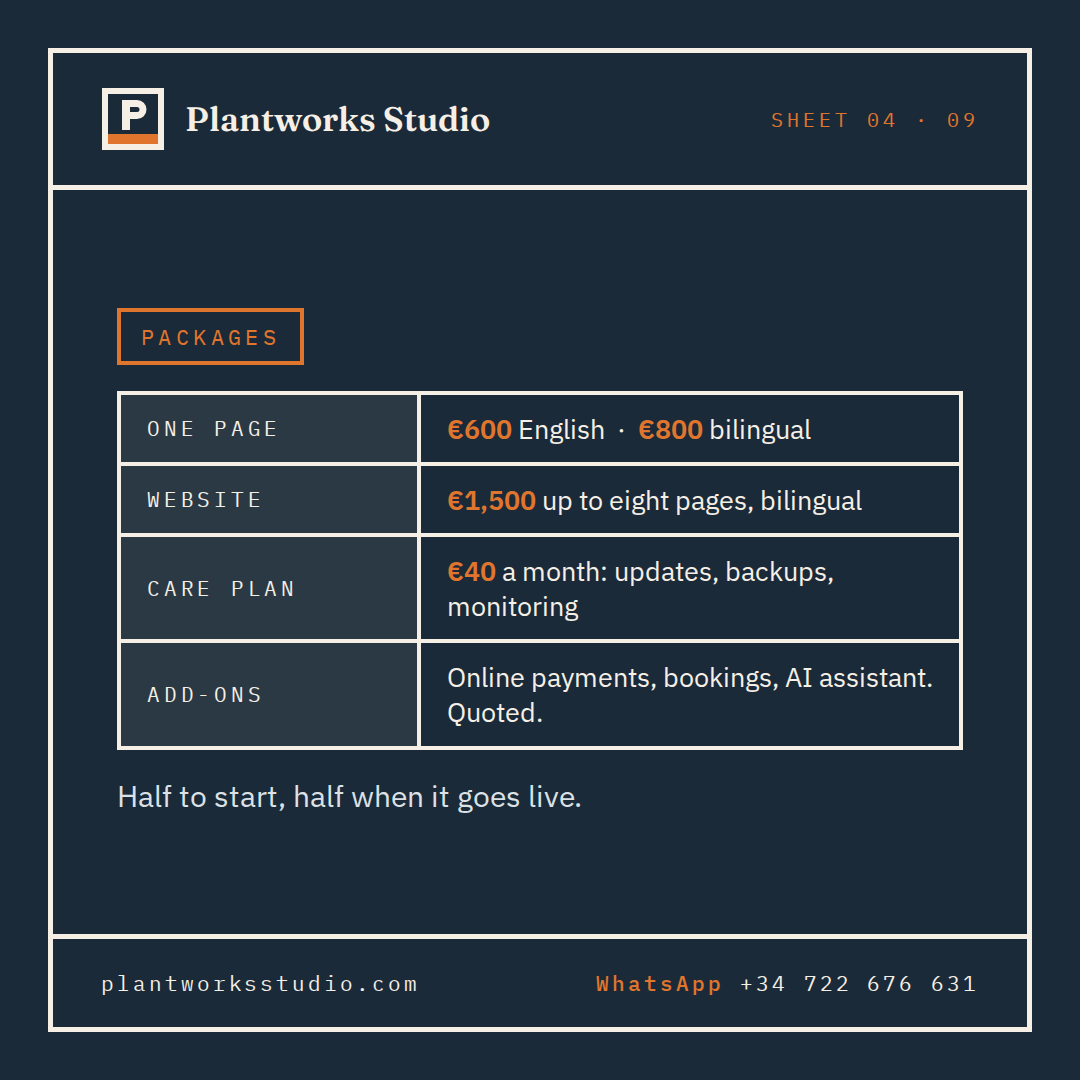
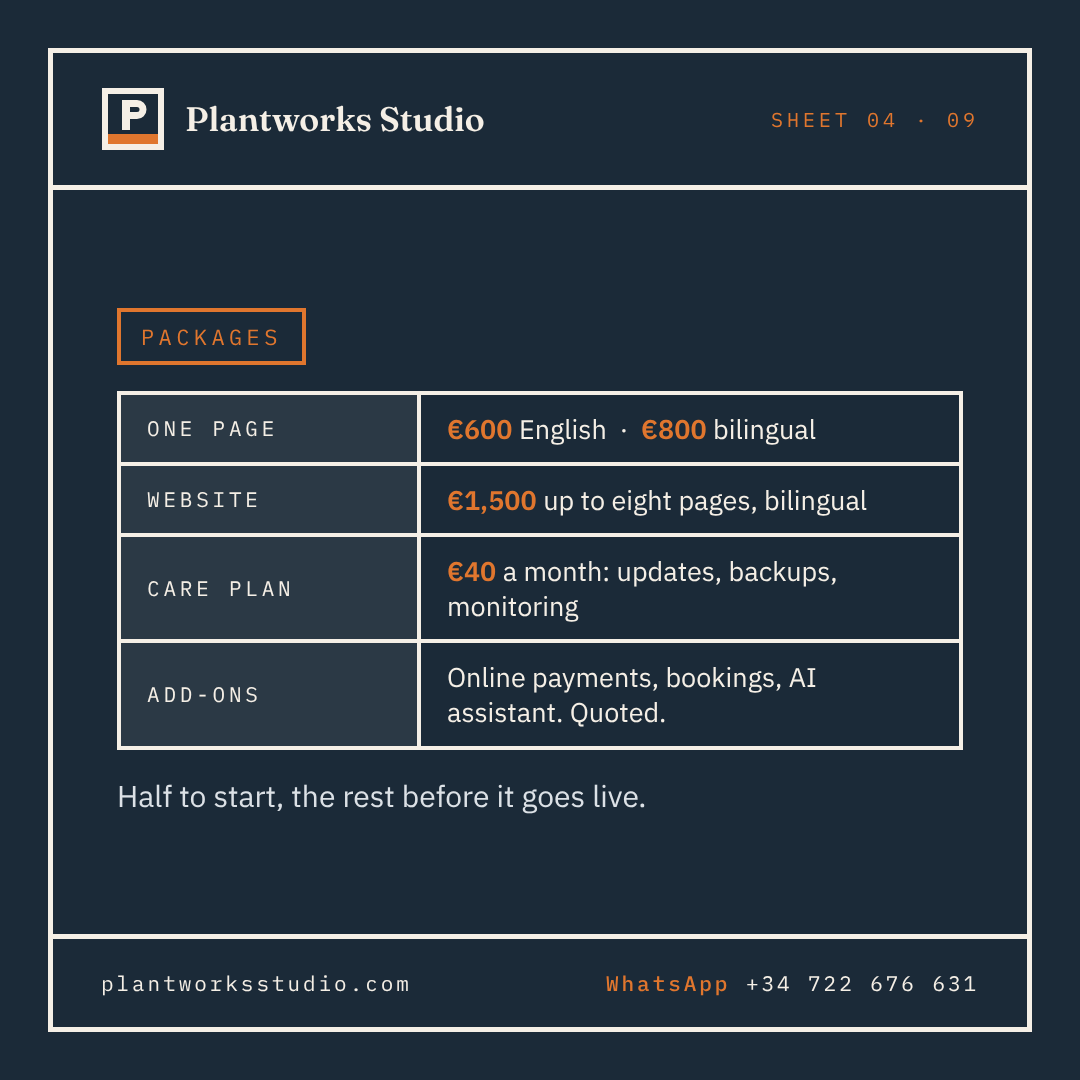
Plantworks: balance paid before the site goes live (invoices, proposal, site EN/ES, WhatsApp, Instagram post 04)
Claude-Session: https://claude.ai/code/session_01JNXA7Uz8qiMYfqnYN9MWx9

diff --git a/plantworks-studio/templates/build-templates.js b/plantworks-studio/templates/build-templates.js
@@ -105,7 +105,7 @@ const EN = {
   vatNote: 'VAT: Plantworks Studio Ltd is not VAT registered. For business customers in Spain and the EU, this supply of services is subject to the reverse charge; the customer accounts for VAT in their own country (Article 196, Council Directive 2006/112/EC). Delete this note for UK and private customers.',
   payBank: 'Pay by bank transfer', bank: [['Account name:', 'Plantworks Studio Ltd'], ['IBAN (EUR):', '[GB00 XXXX 0000 0000 0000 00]'], ['BIC:', '[XXXXGB00]'], ['Sort code / account (GBP):', '[00-00-00 / 00000000]'], ['Reference:', '[invoice number]']],
   payCard: 'Pay by card', cardNote: 'Card, Apple Pay or Google Pay. Care plans are billed monthly by card.',
-  terms: 'Terms', termsText: 'Every invoice is payable within 14 days of its date. Half of the build price is invoiced when the brief is agreed and half on launch. Care is billed monthly in advance and can be cancelled any month. Files and domain remain the client’s.',
+  terms: 'Terms', termsText: 'Half of the build price is invoiced when the brief is agreed; work starts once it is paid. The balance is invoiced when the preview is approved and is paid before the site goes live. Care is billed monthly in advance and can be cancelled any month. Any other invoice is payable within 14 days. Files and domain remain the client’s.',
   footer: 'Plantworks Studio Ltd · Registered in England and Wales · Thank you for your business',
 };
 const ES = {
@@ -120,7 +120,7 @@ const ES = {
   vatNote: 'IVA: operación no sujeta en el Reino Unido. Inversión del sujeto pasivo: el destinatario, empresario o profesional establecido en España, es el sujeto pasivo del IVA (art. 84.Uno.2º Ley 37/1992; art. 196 Directiva 2006/112/CE). Borrar esta nota para clientes particulares.',
   payBank: 'Pago por transferencia', bank: [['Titular:', 'Plantworks Studio Ltd'], ['IBAN (EUR):', '[GB00 XXXX 0000 0000 0000 00]'], ['BIC:', '[XXXXGB00]'], ['Concepto:', '[número de factura]']],
   payCard: 'Pago con tarjeta', cardNote: 'Tarjeta, Apple Pay o Google Pay. El mantenimiento se cobra cada mes con tarjeta.',
-  terms: 'Condiciones', termsText: 'Cada factura se paga en un plazo de 14 días desde su fecha. La mitad del precio de la web se factura al inicio y la otra mitad a la publicación. El mantenimiento se factura por adelantado cada mes y se puede cancelar en cualquier momento. Los archivos y el dominio son del cliente.',
+  terms: 'Condiciones', termsText: 'La mitad del precio de la web se factura al inicio y el trabajo empieza cuando está pagada. El resto se factura al aprobar la vista previa y se paga antes de publicar la web. El mantenimiento se factura por adelantado cada mes y se puede cancelar en cualquier momento. Las demás facturas se pagan en un plazo de 14 días. Los archivos y el dominio son del cliente.',
   footer: 'Plantworks Studio Ltd · Sociedad registrada en Inglaterra y Gales · Gracias por su confianza',
 };
 // Spanish number format uses "1.650,00 €" — patch the ES amounts
@@ -182,7 +182,7 @@ function proposal() {
         r3(t('Care Plus — Care plus your Google listing managed. Optional'), t('€75 / month'), t('€75 / month')),
       ], [5638, 2000, 2000]),
       P([t('Launch offer: ', { bold: true }), ph('[This is one of the first five multi-page sites at €1,200 instead of €1,500, in return for a Google review at launch and permission to show the site in our portfolio.]')], { before: 120, after: 40 }),
-      P(t('Prices exclude VAT or IVA. Half on brief, half on launch. Photography, copywriting and any paid third-party service at cost.', { size: 18, color: SOFT })),
+      P(t('Prices exclude VAT or IVA. Half on brief, the balance before launch. Photography, copywriting and any paid third-party service at cost.', { size: 18, color: SOFT })),
 
       sec('What we need from you'),
       bullet(t('Logo and any brand colours, or the sign and we’ll match it')),

diff --git a/plantworks-studio/site/es/index.html b/plantworks-studio/site/es/index.html
@@ -425,7 +425,7 @@
       <p>Arreglamos, actualizamos o rescatamos la web que ya tienes: un formulario roto, una p&aacute;gina nueva, un cambio en la carta, un problema de velocidad o de Google, o recuperarla del desarrollador que ya no contesta. La mayor&iacute;a, en menos de una semana. Los rescates grandes, con presupuesto tras una revisi&oacute;n gratuita.</p>
       <a class="btn btn-dark" href="#contact">Pedir presupuesto</a>
     </div>
-    <p class="fine">Precios sin IVA. A los clientes del Reino Unido se les factura en libras al cambio del día. La mitad al empezar, la mitad al publicar; el Mantenimiento se factura cada mes. El trabajo fuera de paquete son 45 &euro; la hora, presupuestados antes de empezar. Fotografía, redacción, idiomas adicionales y cualquier servicio de terceros de pago se repercuten a precio de coste.</p>
+    <p class="fine">Precios sin IVA. A los clientes del Reino Unido se les factura en libras al cambio del día. La mitad al empezar y el resto antes de publicar; el Mantenimiento se factura cada mes. El trabajo fuera de paquete son 45 &euro; la hora, presupuestados antes de empezar. Fotografía, redacción, idiomas adicionales y cualquier servicio de terceros de pago se repercuten a precio de coste.</p>
   </div>
 </section>
 

diff --git a/plantworks-studio/site/index.html b/plantworks-studio/site/index.html
@@ -434,7 +434,7 @@
       <p>Fix, update or rescue the site you already have: a broken form, a new page, a menu change, a speed or Google problem, or getting it back from the developer who has stopped answering. Most jobs done inside a week. Bigger rescues quoted after a free look.</p>
       <a class="btn btn-dark" href="#contact">Get a quote</a>
     </div>
-    <p class="fine">Prices exclude VAT or IVA. UK clients are invoiced in pounds at the day's rate. Half on brief, half on launch; Care billed monthly. Extra work outside a package is &euro;45 an hour, quoted before it starts. Photography, copywriting, extra languages and any paid third-party service are passed on at cost.</p>
+    <p class="fine">Prices exclude VAT or IVA. UK clients are invoiced in pounds at the day's rate. Half on brief, the balance before launch; Care billed monthly. Extra work outside a package is &euro;45 an hour, quoted before it starts. Photography, copywriting, extra languages and any paid third-party service are passed on at cost.</p>
   </div>
 </section>
 

diff --git a/plantworks-studio/social/instagram/src/04.html b/plantworks-studio/social/instagram/src/04.html
@@ -5,5 +5,5 @@
 <div><span>Website</span><span><b class=sol>€1,500</b> up to eight pages, bilingual</span></div>
 <div><span>Care plan</span><span><b class=sol>€40</b> a month: updates, backups, monitoring</span></div>
 <div><span>Add-ons</span><span>Online payments, bookings, AI assistant. Quoted.</span></div>
-</div><p class=lede>Half to start, half when it goes live.</p></div>
+</div><p class=lede>Half to start, the rest before it goes live.</p></div>
 <div class=foot><span>plantworksstudio.com</span><span><b>WhatsApp</b> +34 722 676 631</span></div></div></body></html>

diff --git a/plantworks-studio/templates/README.md b/plantworks-studio/templates/README.md
@@ -9,6 +9,6 @@ Word documents to duplicate, fill in and save as PDF. Orange text is a placehold
 | `brief-checklist.md` | Ten questions to cover in the first meeting, and what to paste here afterwards. |
 | `Plantworks-Proposal-EN.docx` | Two-page proposal sent after the first conversation: what we heard, what we'll build, what's included, timeline, price, what we need, next step. |
 
-Invoice numbering: `PW-YYYY-NNN`, one sequence for both languages. Payment terms match the site: half invoiced on brief, half on launch, Care monthly in advance. **Every invoice is payable within 14 days** (decided 14 Oct 2026), including the launch invoice: the site goes live, then the balance is paid within 14 days.
+Invoice numbering: `PW-YYYY-NNN`, one sequence for both languages. Payment terms match the site: half invoiced on brief (work starts once paid), the balance invoiced when the preview is approved and **paid before the site goes live** (decided 15 Oct 2026). Care monthly in advance. Any other invoice (extra work, small jobs) within 14 days.
 
 `build-templates.js` regenerates all three with the `docx` npm package (`node build-templates.js <outdir>`), for when the company details or prices change.

diff --git a/plantworks-studio/templates/whatsapp.md b/plantworks-studio/templates/whatsapp.md
@@ -41,9 +41,9 @@ Nuestros paquetes: web de una página 600 € en inglés u 800 € bilingüe, we
 
 **/how**
 ```
-How it works: a 20-minute call or chat about your business, a fixed-price proposal within two days, 50% to start, a private preview link to review, the rest on launch. Most sites are live in two to three weeks.
+How it works: a 20-minute call or chat about your business, a fixed-price proposal within two days, 50% to start, a private preview link to review, the rest before it goes live. Most sites are live in two to three weeks.
 
-Cómo funciona: una llamada o chat de 20 minutos sobre su negocio, una propuesta con precio fijo en dos días, 50 % para empezar, un enlace privado para revisar la web, y el resto al publicarla. La mayoría de las webs están en marcha en dos o tres semanas.
+Cómo funciona: una llamada o chat de 20 minutos sobre su negocio, una propuesta con precio fijo en dos días, 50 % para empezar, un enlace privado para revisar la web, y el resto antes de publicarla. La mayoría de las webs están en marcha en dos o tres semanas.
 ```
 
 **/fix**

diff --git a/plantworks-studio/README.md b/plantworks-studio/README.md
@@ -102,7 +102,7 @@ Every site is a deploy folder: drag it onto Netlify or Cloudflare Pages, connect
 
 **Launch offer**: first five multi-page sites at €1,200 in return for a Google review and portfolio permission. Ends when the fifth signs. Stated as such on the site.
 
-**Terms**: half on brief, half on launch. Care billed monthly, cancel any month. Photography, copywriting, extra languages and paid third-party services passed on at cost.
+**Terms**: half on brief (work starts once paid), the balance paid before the site goes live. Care billed monthly, cancel any month. Photography, copywriting, extra languages and paid third-party services passed on at cost.
 
 The care plan is the recurring-revenue engine. Twenty Care clients is about €800/month before building anything; Care Plus nearly doubles that per client for roughly an hour a month on their Google listing, so offer it at every hand-over.
 

diff --git a/plantworks-studio/social/instagram/README.md b/plantworks-studio/social/instagram/README.md
@@ -56,7 +56,7 @@ WhatsApp +34 722 676 631 · plantworksstudio.com
 
 **04**
 ```
-Three packages, no hidden extras. One page from €600, a full site up to eight pages for €1,500, and an optional care plan at €40 a month. Half to start, half when it goes live.
+Three packages, no hidden extras. One page from €600, a full site up to eight pages for €1,500, and an optional care plan at €40 a month. Half to start, the rest before it goes live.
 
 Tres paquetes, sin extras ocultos. Una página desde 600 €, web completa de hasta ocho páginas por 1.500 €, y plan de mantenimiento opcional por 40 € al mes. Mitad al empezar, mitad al publicar.
 
